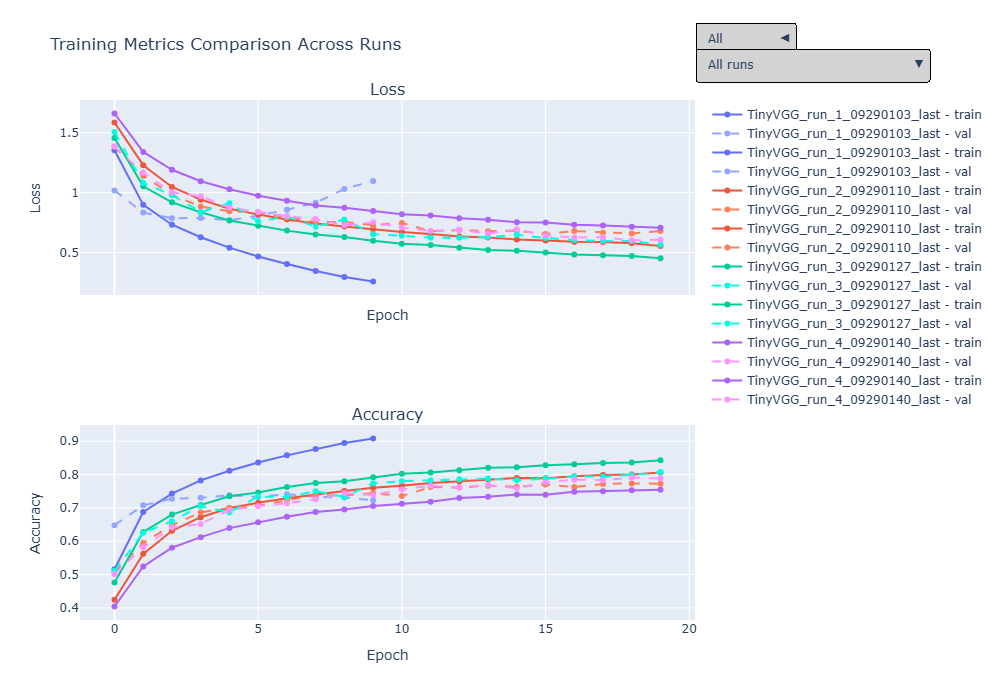
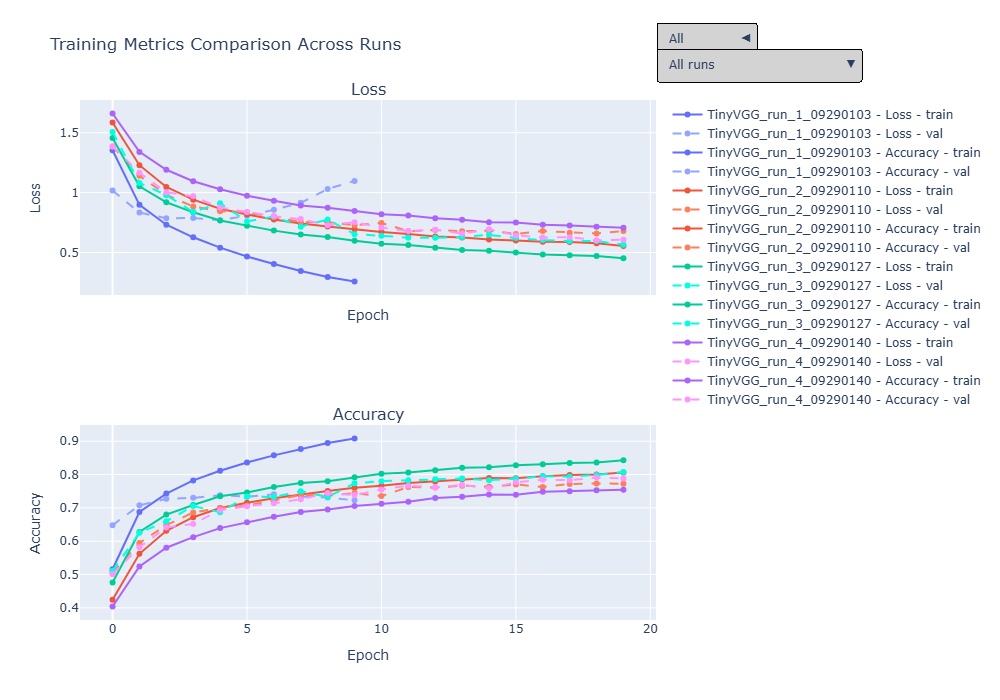
minor dashb clarity

diff --git a/utils/plotting.py b/utils/plotting.py
@@ -13,7 +13,9 @@ def load_all_metrics(metrics_dir, pattern="*_last.json"):
     for f in metrics_dir.glob(pattern):
         with open(f, "r") as file:
             data = json.load(file)
-            data["run_name"] = f.stem
+            # data["run_name"] = f.stem
+            # strip "_last" from the filename for cleaner run name
+            data["run_name"] = f.stem.replace("_last", "")
             for key in ["train_loss", "val_loss", "train_accuracy", "val_accuracy"]:
                 if isinstance(data.get(key), (int, float)):
                     data[key] = [data[key]]
@@ -45,7 +47,8 @@ def plot_metrics_grid(all_metrics):
         rows=2, cols=1, shared_xaxes=True, subplot_titles=("Loss", "Accuracy")
     )
 
-    trace_info = []  # store run_name and curve_type for each trace
+    trace_info = []  # store run_name, metric, and curve_type for each trace
+
     for m in all_metrics:
         base_color = color_map[m["run_name"]]
         train_color = base_color
@@ -56,55 +59,55 @@ def plot_metrics_grid(all_metrics):
             go.Scatter(
                 y=m["train_loss"],
                 mode="lines+markers",
-                name=f"{m['run_name']} - train",
+                name=f"{m['run_name']} - Loss - train",
                 line=dict(color=train_color),
             ),
             row=1,
             col=1,
         )
-        trace_info.append({"run": m["run_name"], "type": "train"})
+        trace_info.append({"run": m["run_name"], "metric": "Loss", "type": "train"})
 
         fig.add_trace(
             go.Scatter(
                 y=m["val_loss"],
                 mode="lines+markers",
-                name=f"{m['run_name']} - val",
+                name=f"{m['run_name']} - Loss - val",
                 line=dict(color=val_color, dash="dash"),
             ),
             row=1,
             col=1,
         )
-        trace_info.append({"run": m["run_name"], "type": "val"})
+        trace_info.append({"run": m["run_name"], "metric": "Loss", "type": "val"})
 
         # Accuracy curves
         fig.add_trace(
             go.Scatter(
                 y=m["train_accuracy"],
                 mode="lines+markers",
-                name=f"{m['run_name']} - train",
+                name=f"{m['run_name']} - Accuracy - train",
                 line=dict(color=train_color),
             ),
             row=2,
             col=1,
         )
-        trace_info.append({"run": m["run_name"], "type": "train"})
+        trace_info.append({"run": m["run_name"], "metric": "Accuracy", "type": "train"})
 
         fig.add_trace(
             go.Scatter(
                 y=m["val_accuracy"],
                 mode="lines+markers",
-                name=f"{m['run_name']} - val",
+                name=f"{m['run_name']} - Accuracy - val",
                 line=dict(color=val_color, dash="dash"),
             ),
             row=2,
             col=1,
         )
-        trace_info.append({"run": m["run_name"], "type": "val"})
+        trace_info.append({"run": m["run_name"], "metric": "Accuracy", "type": "val"})
 
     # Buttons for train/val visibility
     def get_visibility(train=True, val=True, selected_run=None):
         vis = []
-        for i, info in enumerate(trace_info):
+        for info in trace_info:
             run_match = selected_run is None or info["run"] == selected_run
             type_match = (info["type"] == "train" and train) or (
                 info["type"] == "val" and val
@@ -114,7 +117,9 @@ def plot_metrics_grid(all_metrics):
 
     buttons_train_val = [
         dict(
-            label="All", method="update", args=[{"visible": get_visibility(True, True)}]
+            label="All",
+            method="update",
+            args=[{"visible": get_visibility(True, True)}],
         ),
         dict(
             label="Train only",
@@ -128,16 +133,15 @@ def plot_metrics_grid(all_metrics):
         ),
     ]
 
-    buttons_runs = []
-    run_names = [m["run_name"] for m in all_metrics]
-    buttons_runs.append(
+    buttons_runs = [
         dict(
             label="All runs",
             method="update",
             args=[{"visible": get_visibility(True, True, None)}],
         )
-    )
-    for run_name in run_names:
+    ]
+
+    for run_name in [m["run_name"] for m in all_metrics]:
         buttons_runs.append(
             dict(
                 label=run_name,
@@ -175,7 +179,7 @@ def plot_metrics_grid(all_metrics):
         width=1000,
         title_text="Training Metrics Comparison Across Runs",
         showlegend=True,
-        margin=dict(r=200),  # give space on right for dropdowns
+        margin=dict(r=200),
     )
 
     fig.update_xaxes(title_text="Epoch", row=1, col=1)
